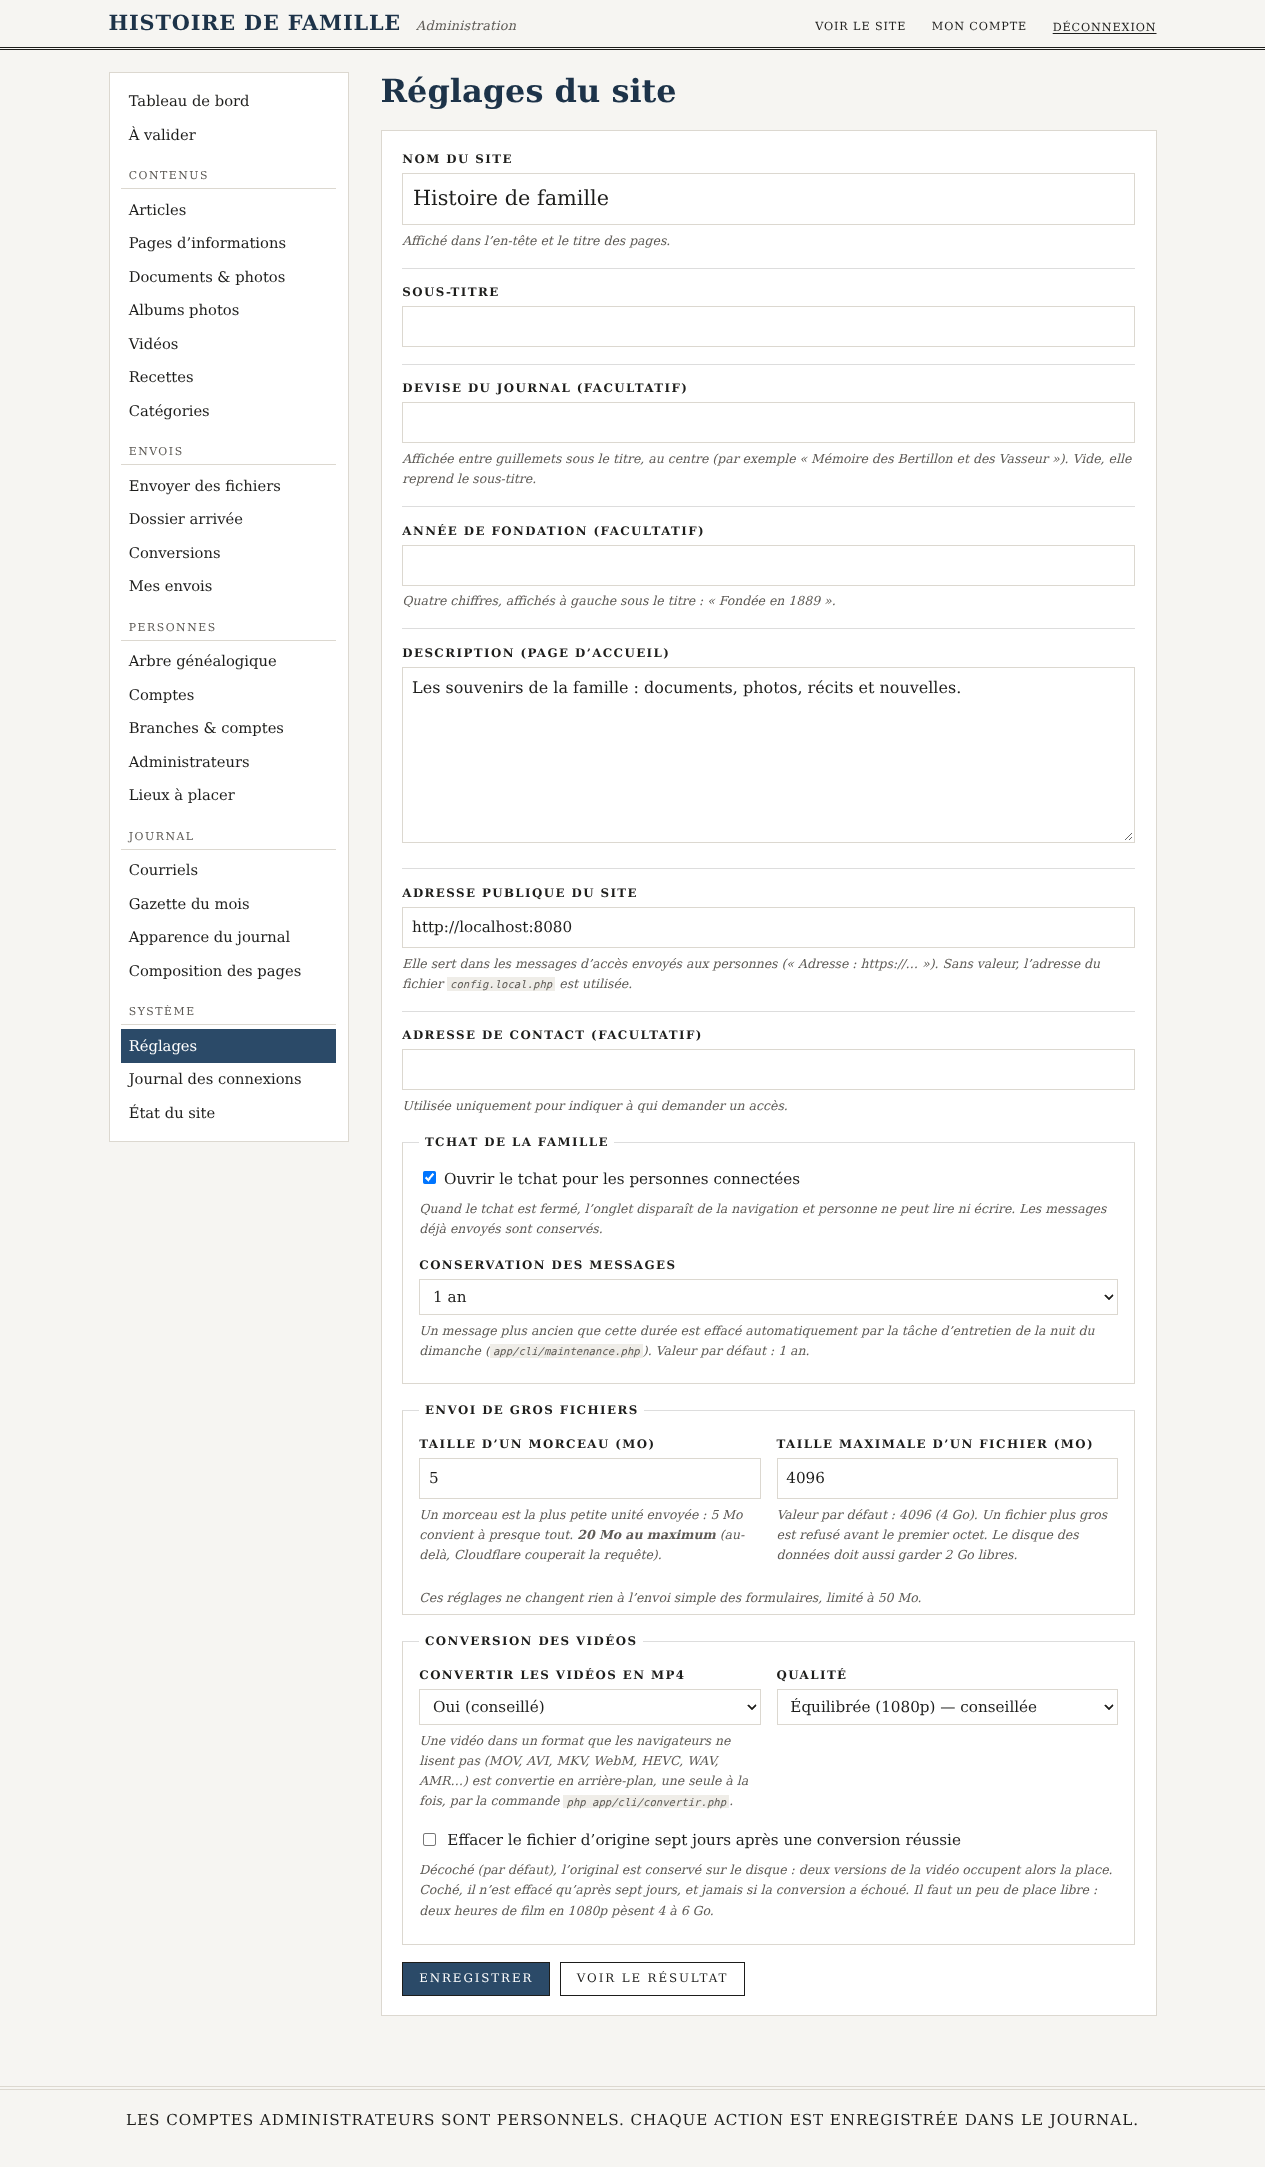
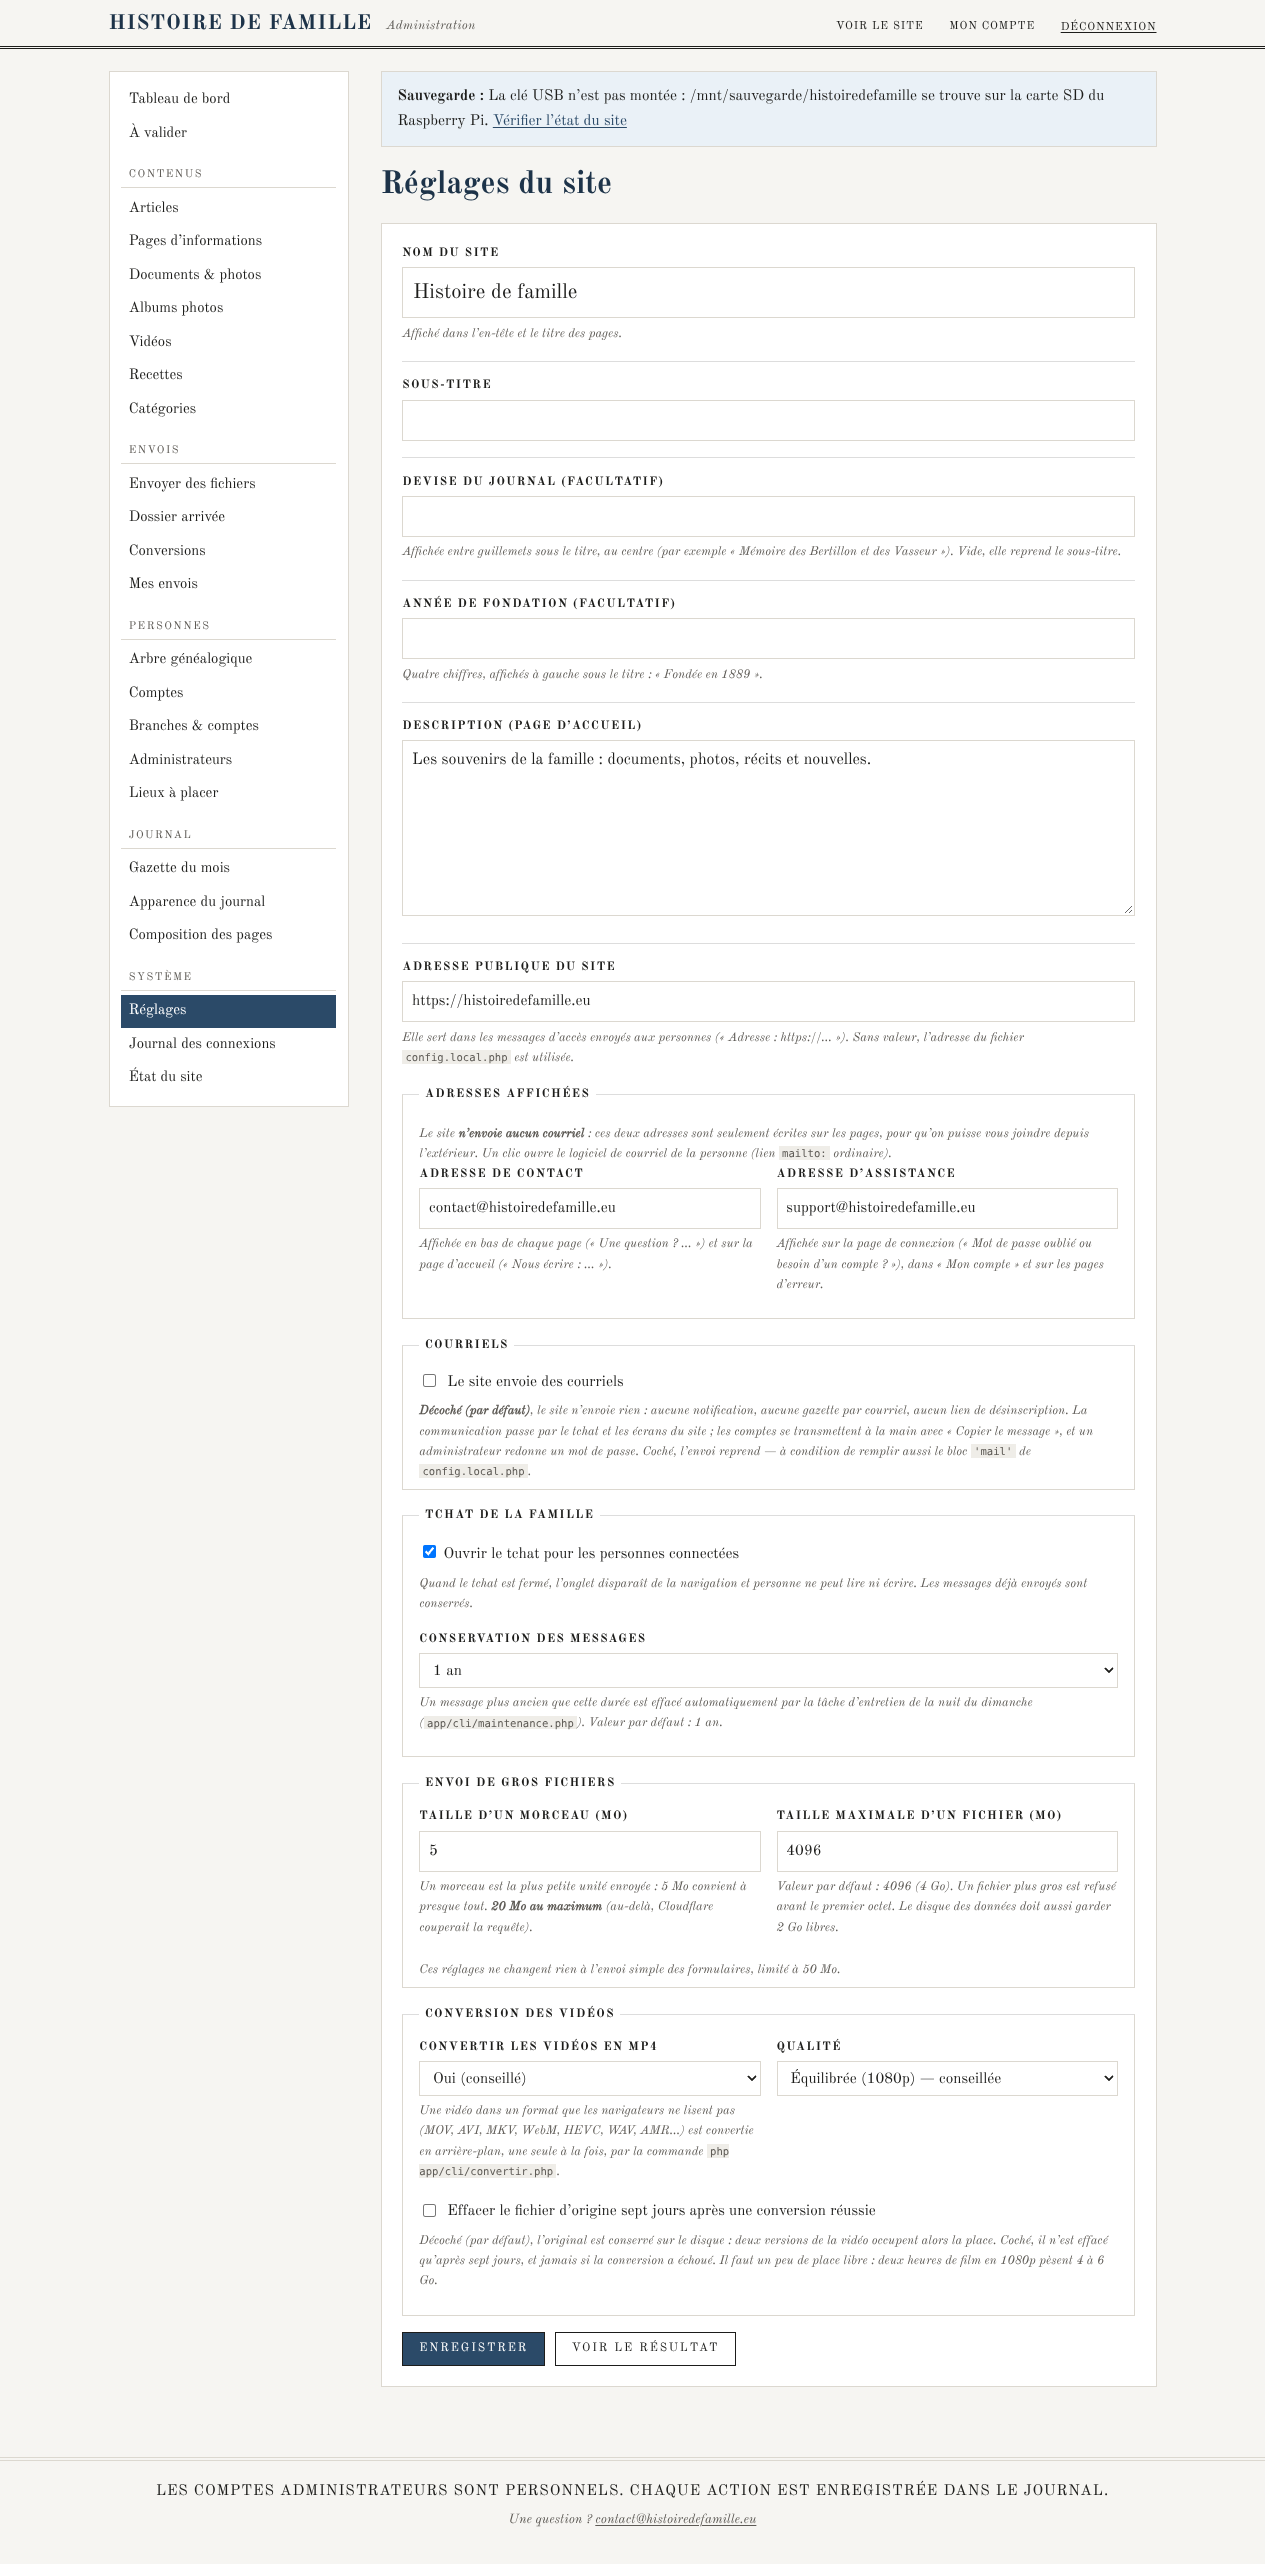
1.28.0 — captures de référence refaites, papier et bleu
Les PNG de docs/captures/ qui montrent les pages changées par la 1.28.0 sont
refaits avec la base de démonstration (images réelles converties en data:) :
accueil, connexion et « Mon compte » en 1280 et 390 px, palette papier et bleu,
et les Réglages (bloc « Adresses affichées », case « Courriels ») en bleu,
1265 px. « mobile-connexion.png » passe de 375 à 390 px, la largeur des autres
captures de téléphone.

Deux outils de développement rendent la fabrication reproductible :
tools/navigateur/inline-medias.php (les images servies par PHP, écrites en
data: dans la page) et tools/navigateur/capture.mjs (la photo, page entière).
Ils sont hors de public/ et ne sont jamais chargés par le site.

Contrôle navigateur rejoué sur les pages de démonstration : 14 contrôles × 4
(390 et 1280 px, papier et bleu), 0 échec. Famille « contacts » : 43/43.
Lint : 193 fichiers, 0 erreur.

Documentation : docs/captures/README.md (tableau et section 1.28.0),
tools/navigateur/README.md, CHANGELOG, TODO.

diff --git a/tools/navigateur/inline-medias.php b/tools/navigateur/inline-medias.php
@@ -1,0 +1,52 @@
+<?php
+/**
+ * Banc des captures : convertit les images d'une page rendue en `data:`.
+ *
+ *   HDF_CONFIG=/chemin/config.local.php php tools/navigateur/inline-medias.php \
+ *       /tmp/accueil.html /tmp/accueil-images.html
+ *
+ * Les photos et les fichiers ne passent pas par `public/` : le site les sert
+ * par PHP (`/media/miniature/{id}`, `/f/{id}`), que le petit serveur du banc ne
+ * connaît pas. Cette commande lit le fichier réel dans le stockage et l'écrit
+ * dans la page en `data:` — la capture montre donc les vraies images, sans
+ * Apache. Elle ne touche ni aux feuilles de style ni aux scripts.
+ *
+ * Outil de développement seulement : hors de `public/`, jamais appelé par le
+ * site.
+ */
+require '/home/user/histoiredefamille/app/bootstrap.php';
+
+$source = $argv[1] ?? '';
+$cible  = $argv[2] ?? '';
+$html   = (string) @file_get_contents($source);
+if ($html === '') { fwrite(STDERR, "source vide\n"); exit(1); }
+
+$racine = (string) config('storage.root');
+
+$remplacer = static function (array $m) use ($racine): string {
+    $adresse = $m[2];
+    $fichier = null;
+    if (preg_match('#^/media/miniature/(\d+)$#', $adresse, $t)) {
+        $rel = (string) db_value('SELECT thumb_path FROM documents WHERE id = ?', [(int) $t[1]], '');
+        if ($rel !== '') { $fichier = $racine . '/' . $rel; }
+    } elseif (preg_match('#^/f/(\d+)$#', $adresse, $t)) {
+        $rel = (string) db_value('SELECT rel_path FROM documents WHERE id = ?', [(int) $t[1]], '');
+        if ($rel !== '') { $fichier = $racine . '/' . $rel; }
+    } else {
+        return $m[0];
+    }
+    if ($fichier === null || !is_file($fichier)) { return $m[0]; }
+    $octets = (string) file_get_contents($fichier);
+    $mime = match (strtolower(pathinfo($fichier, PATHINFO_EXTENSION))) {
+        'jpg', 'jpeg' => 'image/jpeg', 'png' => 'image/png', 'webp' => 'image/webp',
+        'gif' => 'image/gif', 'svg' => 'image/svg+xml', 'pdf' => 'application/pdf',
+        default => 'application/octet-stream',
+    };
+    return $m[1] . '="data:' . $mime . ';base64,' . base64_encode($octets) . '"';
+};
+
+$html = (string) preg_replace_callback('#(src|href)="(/(?:media|f)/[^"]+)"#', $remplacer, $html);
+
+// Les feuilles et scripts servis par le banc suffisent ; on n'y touche pas.
+file_put_contents($cible, $html);
+echo $cible, ' : ', strlen($html), " octets\n";

diff --git a/docs/captures/README.md b/docs/captures/README.md
@@ -5,7 +5,12 @@ versions. Elles sont **engendrées** : aucune n'est retouchée à la main.
 
 | Fichier | Page | Largeur |
 |---|---|---|
-| `ordinateur-accueil.png` / `mobile-accueil.png` | page publique `/` (deux portes : Consulter, Se connecter) | 1280 / 390 |
+| `ordinateur-accueil.png` / `mobile-accueil.png` | page publique `/` (deux portes : Consulter, Se connecter, et « Nous écrire ») | 1280 / 390 |
+| `ordinateur-accueil-bleu.png` / `mobile-accueil-bleu.png` | la même page d'accueil en palette **bleu** | 1280 / 390 |
+| `ordinateur-connexion.png` / `mobile-connexion.png` | `/connexion` : « Mot de passe oublié ou besoin d'un compte ? » et l'adresse d'assistance | 1280 / 390 |
+| `mobile-connexion-bleu.png` | la même page en palette **bleu** | 390 |
+| `ordinateur-mon-compte.png` / `mobile-mon-compte.png` | « Mon compte » d'un administrateur : « Besoin d'aide ? » et l'adresse d'assistance, **sans** section « Mes courriels » (envoi coupé) | 1280 / 390 |
+| `mobile-mon-compte-bleu.png` | la même page en palette **bleu** | 390 |
 | `ordinateur-accueil-dans-la-famille.png` / `mobile-accueil-dans-la-famille.png` | la même page `/` vue par un lecteur : plus de porte, et le bloc « Dans la famille » (anniversaires, événements, personnes, nouveautés) | 1280 / 390 |
 | `ordinateur-accueil-connecte.png` / `mobile-accueil-connecte.png` | accueil d'un lecteur (`/famille`) : nouveautés de la famille, une, encarts | 1280 / 390 |
 | `ordinateur-accueil-journaliste.png` / `mobile-accueil-journaliste.png` | accueil d'un journaliste : « Proposer un article » + « Mes propositions » | 1280 / 390 |
@@ -35,19 +40,32 @@ Les autres fichiers (albums publics, articles, arbre, calendrier, frise, tchat,
 vidéos, recettes) datent des versions précédentes : les pages correspondantes
 n'ont ni menu d'administration ni changement depuis.
 
-### 1.28.0 — pages refaites dans le banc, PNG de référence inchangés
+### 1.28.0 — adresses affichées, écrans de courriel masqués
 
-La 1.28.0 change des pages visibles sur **toutes** les pages (une ligne « Une
-question ? » avec l'adresse de contact dans le pied de page), sur l'accueil
-(« Nous écrire »), la connexion, « Mon compte », les pages d'erreur, la gazette
-et les réglages. Les PNG de référence ci-dessus **n'ont pas été refaits** : ils
-demandent la base de démonstration et l'intégration des images. En attendant,
-les captures de contrôle ont été prises dans le banc (`tools/navigateur/
-actions-contacts.mjs`) en **390 px et 1280 px**, palette **papier** et **bleu**,
-pour l'accueil, la connexion, « Mon compte » et la page 404 : **14 contrôles ×
-4, 0 échec**. Elles servent à vérifier la place et la lisibilité des adresses,
-pas à illustrer le README ; les PNG de référence seront refaits à la prochaine
-version qui touche la démonstration.
+La 1.28.0 est visible sur **toutes** les pages (une ligne « Une question ? »
+avec l'adresse de contact dans le pied de page), sur l'accueil (« Nous écrire :
+… »), la connexion, « Mon compte », les pages d'erreur, la gazette et les
+réglages. Les captures refaites :
+
+| Fichier | Ce que l'on y voit |
+|---|---|
+| `ordinateur-accueil.png`, `mobile-accueil.png` (+ versions `-bleu`) | « Nous écrire : contact@… » sous les deux portes, et la ligne du pied de page |
+| `ordinateur-connexion.png`, `mobile-connexion.png`, `mobile-connexion-bleu.png` | « Mot de passe oublié ou besoin d'un compte ? Écrivez à support@… » |
+| `ordinateur-mon-compte.png`, `mobile-mon-compte.png`, `mobile-mon-compte-bleu.png` | « Besoin d'aide ? Écrivez à support@… », et **aucune** section « Mes courriels » : ni champ d'adresse, ni case de consentement |
+| `ordinateur-reglages-tchat.png` (bleu, 1265 px) | le nouveau bloc **Adresses affichées** (contact, assistance) et la case **Courriels**, décochée |
+
+Elles sont faites comme les autres : base de démonstration chargée dans une base
+d'essai, pages rendues par le routeur du site, images converties en `data:` pour
+que le rendu soit complet hors serveur, puis photographiées avec un navigateur
+en 1280 px, 1265 px (administration) et 390 px, palette **papier** et **bleu**.
+`mobile-connexion.png` est passée de 375 à **390 px**, la largeur de toutes les
+autres captures de téléphone.
+
+Le contrôle automatique des mêmes pages (`tools/navigateur/actions-contacts.mjs`) :
+**14 contrôles × 4** (390 et 1280 px, papier et bleu), **0 échec** — liens
+`mailto:` ordinaires (ni `onclick`, ni style en ligne), adresse qui tient dans la
+largeur, contraste 6,98 (papier) et 6,30 (bleu), aucun débordement horizontal,
+aucune erreur JavaScript.
 
 ### 1.26.0 — aucune capture refaite
 
@@ -72,3 +90,7 @@ pour l'administration (1265 = 1280 moins la barre de défilement : les captures
 d'administration gardent ainsi la même largeur d'une version à l'autre). Les
 images servies par Apache sont intégrées pour que le rendu soit complet hors
 serveur. Aucune donnée réelle : tout le contenu est marqué « (démo) ».
+
+Les trois outils sont dans `tools/navigateur/`, qui explique la marche à suivre :
+`rendre.php` (la page par le routeur), `inline-medias.php` (les images en
+`data:`), `serveur.mjs` (le petit serveur) et `capture.mjs` (la photo).

diff --git a/tools/navigateur/README.md b/tools/navigateur/README.md
@@ -148,6 +148,29 @@ d'erreur JavaScript.
 Les captures d'écran et le corps du formulaire posté (fichiers `capture-*.txt`)
 sont écrits dans `/tmp` (ou dans `CAPTURES=`).
 
+## Engendrer les captures de `docs/captures/`
+
+Deux outils, en plus du serveur :
+
+```bash
+# 1. Une page rendue par le routeur (comme plus haut), puis ses images en data:.
+HDF_CONFIG=/chemin/config.local.php php tools/navigateur/inline-medias.php \
+    /tmp/accueil.html /tmp/accueil-images.html
+
+# 2. Le serveur d'essai avec cette page et la feuille du thème voulu, puis la
+#    capture (largeur, adresse, fichier, page entière = 1).
+PAGES_ALBUM='{"/":"/tmp/accueil-images.html"}' \
+THEME_CSS=/tmp/theme-papier.css PORT=8199 node tools/navigateur/serveur.mjs &
+node tools/navigateur/capture.mjs 1280 / /tmp/accueil.png 1
+node tools/navigateur/capture.mjs 390  / /tmp/mobile-accueil.png 1
+```
+
+`inline-medias.php` lit les fichiers réels du stockage (`/media/miniature/{id}`,
+`/f/{id}`) et les écrit en `data:` dans la page : la capture montre les vraies
+photos sans Apache. `capture.mjs` photographie la page servie par le banc, page
+entière par défaut. Les deux sont des outils de développement : hors de
+`public/`, jamais chargés par le site.
+
 Fichiers d'essai : n'importe quel fichier fait l'affaire
 (`FICHIER_VIDEO=/tmp/film.mp4`, `FICHIER_DOCUMENT=/tmp/lettre.pdf`).
 

diff --git a/CHANGELOG.md b/CHANGELOG.md
@@ -107,6 +107,14 @@ file, sans être traités.
 
 #### Essais
 
+Les captures de `docs/captures/` ont été **refaites** avec la base de
+démonstration : accueil, connexion et « Mon compte » en 1280 et 390 px, palette
+papier et bleu, plus les Réglages (bloc « Adresses affichées », case
+« Courriels ») en bleu. Deux outils de développement ont été ajoutés pour que
+la fabrication soit reproductible : `tools/navigateur/inline-medias.php` (les
+images réelles de la page en `data:`) et `tools/navigateur/capture.mjs` (la
+photo).
+
 Nouvelle famille **« contacts »** : **43/43**. Elle vérifie les adresses (repli,
 réglage, format, normalisation, enregistrement par le formulaire), leur
 présence aux cinq endroits demandés en lien `mailto:`, l'absence de toute
@@ -114,7 +122,7 @@ adresse de compte à l'écran, le refus d'enfiler et d'envoyer quand le réglage
 est faux, l'arrêt de la commande, la ligne « désactivé volontairement » de la
 vérification avant ouverture, chaque écran masqué — et leur retour quand le
 réglage est rallumé. Suite complète : **1 200 essais, 0 échec**. Lint :
-**192 fichiers, 0 erreur**.
+**193 fichiers, 0 erreur**.
 
 ## [1.27.0] — 2026-11-07
 

diff --git a/TODO.md b/TODO.md
@@ -33,10 +33,16 @@ suivi automatique : cochez au fur et à mesure.
   l'écrivant ; `verifier-mise-en-ligne.php` affiche « Envoi de courriels » en
   **OK** — « courriels désactivés volontairement ».
 - [x] **Essais** : famille « contacts » **43/43** ; suite complète **1 200
-  essais, 0 échec** ; lint **192 fichiers, 0 erreur** ; matrice regénérée.
+  essais, 0 échec** ; lint **193 fichiers, 0 erreur** ; matrice regénérée.
 - [x] **Documentation** : CHANGELOG 1.28.0, README § 6.20 et § 14 (bandeau
   « désactivés, comment réactiver »), § 15 (gazette sans envoi), TODO,
   `config.example.php`.
+- [x] **Captures de référence refaites** (base de démonstration, images en
+  `data:`) : accueil, connexion et « Mon compte » en **1280 et 390 px**, palette
+  **papier** et **bleu**, plus les **Réglages** (bloc « Adresses affichées » et
+  case « Courriels ») en bleu, 1265 px. `mobile-connexion.png` passe de 375 à
+  390 px. Deux outils ajoutés pour que ce soit reproductible :
+  `tools/navigateur/inline-medias.php` et `tools/navigateur/capture.mjs`.
 
 ## Fait (2026-11-07, 1.27.0 — ajouter des photos dans un album)
 
